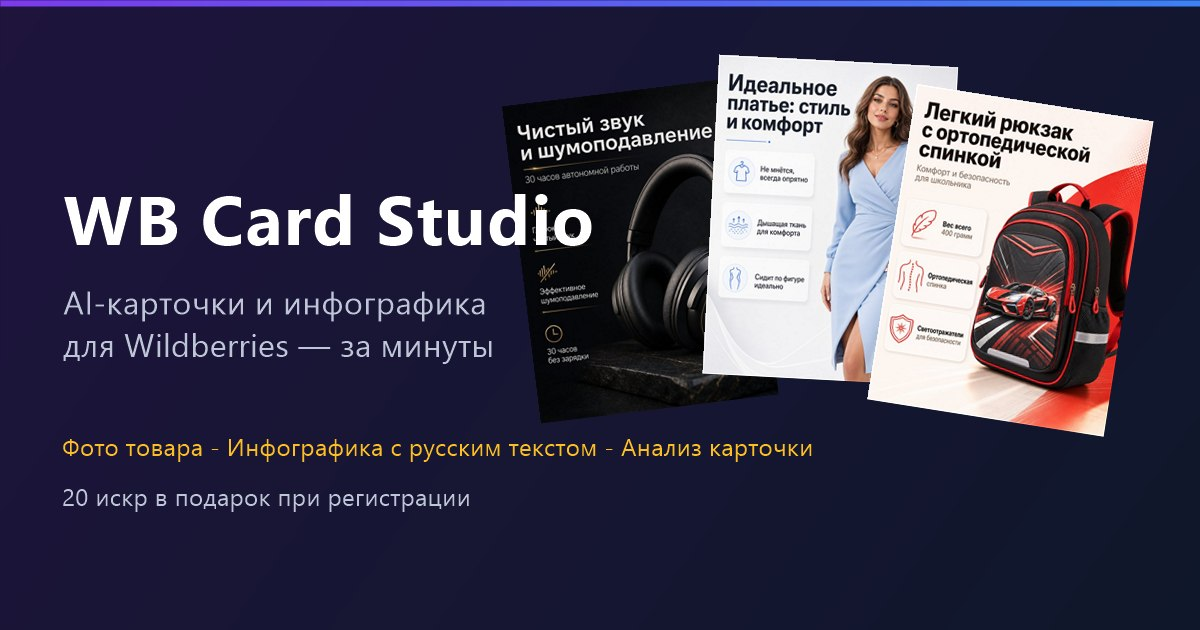
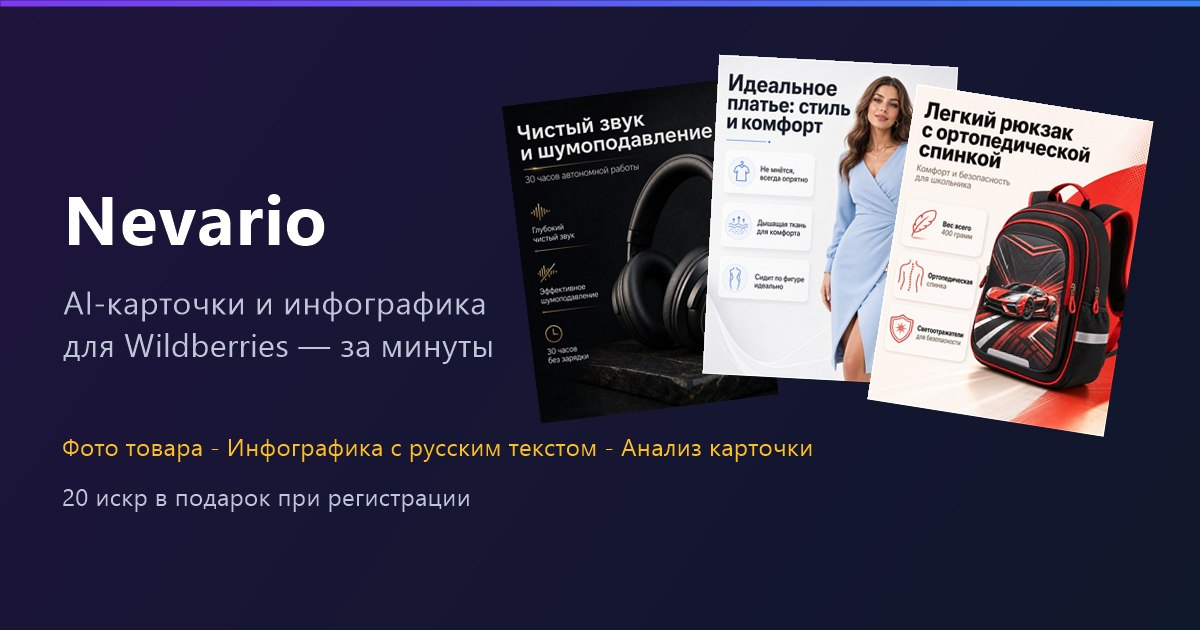
Rebrand to Nevario; turnkey pack is 55 sparks and now includes SEO texts
- all UI/meta/mailer/OG mentions of 'WB Card Studio' -> Nevario; og.jpg
  re-rendered with the new brand
- new generateSeoTexts service (Qwen): WB listing title (<=100 chars,
  keys first), 800-1200 char natural description, 12-15 search queries;
  deterministic fallback so the step can't fail hard
- turnkey: SEO runs as the FIRST step (user sees value in seconds),
  charged 6 sparks; images stay 7 each => full pack 55; results shown
  on the page with per-field copy buttons

Verified on mock providers: 8/8 steps, exactly 55 charged, real Qwen
SEO output is legitimate marketplace copy.

Changed region(s): [[0.0308, 0.3016, 0.4933, 0.3921]]

diff --git a/src/app/turnkey/page.tsx b/src/app/turnkey/page.tsx
@@ -20,6 +20,7 @@ type Step = {
   label: string;
   status: "pending" | "processing" | "done" | "failed";
   url?: string;
+  seo?: { title: string; description: string; keywords: string[] };
 };
 
 export default function TurnkeyPage() {
@@ -109,9 +110,9 @@ export default function TurnkeyPage() {
           </CardHeader>
           <CardContent className="space-y-4">
             <p className="text-xs text-muted-foreground">
-              Загрузите одно фото и заполните данные — студия соберёт комплект: инфографика
-              (преимущества, боль→решение, состав), размерная сетка и три фото (сбоку, сзади,
-              lifestyle). Списание — только за удавшиеся изображения, по 7 ⚡ за штуку.
+              Загрузите одно фото и заполните данные — студия соберёт комплект: SEO-тексты для
+              карточки, инфографика (преимущества, боль→решение, состав), размерная сетка и три
+              фото (сбоку, сзади, lifestyle). Списание — только за то, что удалось сгенерировать.
             </p>
             <ImageUploader
               value={image}
@@ -192,7 +193,7 @@ export default function TurnkeyPage() {
               ) : (
                 <Zap className="h-4 w-4" />
               )}
-              Собрать комплект · {PRICES.turnkey} ⚡ за 7 изображений
+              Собрать комплект · {PRICES.turnkey} ⚡ (7 изображений + SEO)
             </Button>
           </CardContent>
         </Card>
@@ -231,6 +232,73 @@ export default function TurnkeyPage() {
               )}
             </CardContent>
           </Card>
+
+          {(() => {
+            const seo = (steps ?? []).find((s) => s.key === "seo" && s.seo)?.seo;
+            if (!seo) return null;
+            const copy = (text: string, what: string) =>
+              navigator.clipboard
+                .writeText(text)
+                .then(() => toast.success(`${what} — скопировано`))
+                .catch(() => toast.error("Не удалось скопировать"));
+            return (
+              <Card>
+                <CardHeader className="pb-3">
+                  <CardTitle className="text-sm">SEO для карточки</CardTitle>
+                </CardHeader>
+                <CardContent className="space-y-3 text-sm">
+                  <div>
+                    <div className="mb-1 flex items-center justify-between">
+                      <p className="text-xs font-medium text-muted-foreground">Название</p>
+                      <Button variant="ghost" size="sm" onClick={() => copy(seo.title, "Название")}>
+                        Копировать
+                      </Button>
+                    </div>
+                    <p className="rounded-lg border bg-card/60 p-2.5">{seo.title}</p>
+                  </div>
+                  <div>
+                    <div className="mb-1 flex items-center justify-between">
+                      <p className="text-xs font-medium text-muted-foreground">Описание</p>
+                      <Button
+                        variant="ghost"
+                        size="sm"
+                        onClick={() => copy(seo.description, "Описание")}
+                      >
+                        Копировать
+                      </Button>
+                    </div>
+                    <p className="max-h-48 overflow-y-auto whitespace-pre-wrap rounded-lg border bg-card/60 p-2.5 text-xs leading-5">
+                      {seo.description}
+                    </p>
+                  </div>
+                  <div>
+                    <div className="mb-1 flex items-center justify-between">
+                      <p className="text-xs font-medium text-muted-foreground">
+                        Ключевые запросы ({seo.keywords.length})
+                      </p>
+                      <Button
+                        variant="ghost"
+                        size="sm"
+                        onClick={() => copy(seo.keywords.join(", "), "Ключевые запросы")}
+                      >
+                        Копировать
+                      </Button>
+                    </div>
+                    <div className="flex flex-wrap gap-1.5">
+                      {seo.keywords.map((k) => (
+                        <span
+                          key={k}
+                          className="rounded-full border bg-card/60 px-2 py-0.5 text-[11px]"
+                        >
+                          {k}
+                        </span>
+                      ))}
+                    </div>
+                  </div>
+                </CardContent>
+              </Card>
+            );
+          })()}
 
           {doneUrls.length > 0 && (
             <Card>

diff --git a/src/core/turnkey/run.ts b/src/core/turnkey/run.ts
@@ -1,11 +1,11 @@
 import { buildInfographicBrief, generateInfographicBase } from "@/core/infographics/infographic-service";
 import { getLibraryStyle } from "@/core/infographics/style-library";
 import type { InfographicInput } from "@/core/infographics/types";
-import { generateImageFromReference } from "@/core/ai/service";
+import { generateImageFromReference, generateSeoTexts, type SeoTexts } from "@/core/ai/service";
 import { persistGeneration } from "@/core/jobs/persist";
 import { updateJobPayload, completeJob, failJob } from "@/core/jobs/jobs";
 import { applyTx, billingEnabled } from "@/core/billing/billing";
-import { TURNKEY_ITEM_PRICE } from "@/core/billing/prices";
+import { TURNKEY_ITEM_PRICE, TURNKEY_SEO_PRICE } from "@/core/billing/prices";
 import { getUser } from "@/core/auth/store";
 
 /**
@@ -20,6 +20,7 @@ import { getUser } from "@/core/auth/store";
  * reference — a failed step simply isn't paid for.
  */
 export type TurnkeyStepKey =
+  | "seo"
   | "benefits"
   | "pain"
   | "materials"
@@ -33,6 +34,8 @@ export type TurnkeyStep = {
   label: string;
   status: "pending" | "processing" | "done" | "failed";
   url?: string;
+  /** filled for the "seo" step only */
+  seo?: SeoTexts;
 };
 
 export type TurnkeyInput = {
@@ -48,6 +51,7 @@ export type TurnkeyInput = {
 
 export function turnkeySteps(input: TurnkeyInput): TurnkeyStep[] {
   const steps: TurnkeyStep[] = [
+    { key: "seo", label: "SEO: название, описание, ключевые слова", status: "pending" },
     { key: "benefits", label: "Инфографика: преимущества", status: "pending" },
     { key: "pain", label: "Инфографика: боль → решение", status: "pending" },
     { key: "materials", label: "Инфографика: состав и материалы", status: "pending" },
@@ -81,6 +85,19 @@ async function run(parentId: string, email: string, input: TurnkeyInput): Promis
     step.status = "processing";
     await publish();
     try {
+      if (step.key === "seo") {
+        step.seo = await generateSeoTexts({
+          productName: input.productName,
+          category: input.category,
+          benefits: input.benefits,
+          materials: input.materials,
+        });
+        step.status = "done";
+        doneCount++;
+        await chargeItem(email, parentId, step.key, TURNKEY_SEO_PRICE);
+        await publish();
+        continue;
+      }
       const url =
         step.key === "side" || step.key === "back" || step.key === "lifestyle"
           ? await photoStep(step.key, email, input)
@@ -89,7 +106,7 @@ async function run(parentId: string, email: string, input: TurnkeyInput): Promis
       step.url = url;
       firstUrl = firstUrl ?? url;
       doneCount++;
-      await chargeItem(email, parentId, step.key);
+      await chargeItem(email, parentId, step.key, TURNKEY_ITEM_PRICE);
     } catch (e) {
       console.error(`[turnkey] step ${step.key} failed:`, e);
       step.status = "failed";
@@ -181,14 +198,19 @@ async function photoStep(
   });
 }
 
-async function chargeItem(email: string, parentId: string, key: string): Promise<void> {
+async function chargeItem(
+  email: string,
+  parentId: string,
+  key: string,
+  amount: number,
+): Promise<void> {
   if (!billingEnabled()) return;
   try {
     const user = await getUser(email);
     if (user?.role === "admin") return;
     await applyTx({
       email,
-      amount: -TURNKEY_ITEM_PRICE,
+      amount: -amount,
       type: "charge",
       action: "turnkey",
       reference: `${parentId}:${key}`,

diff --git a/src/core/ai/service.ts b/src/core/ai/service.ts
@@ -421,3 +421,62 @@ function parse<T>(text: string, schema: z.ZodType<T>, label: string): T {
   }
   return result.data;
 }
+
+/* ------------------------------ SEO texts ------------------------------- */
+
+const seoTextsSchema = z.object({
+  title: z.string().min(1),
+  description: z.string().min(1),
+  keywords: z.array(z.string()).default([]),
+});
+
+export type SeoTexts = { title: string; description: string; keywords: string[] };
+
+/**
+ * SEO copy for a WB listing: title with the main keys, a natural long
+ * description and a keyword list. Never throws — falls back to a
+ * deterministic draft so a batch (turnkey) step can't die on it.
+ */
+export async function generateSeoTexts(input: {
+  productName: string;
+  category?: string;
+  benefits: string[];
+  materials?: string[];
+}): Promise<SeoTexts> {
+  const fallback: SeoTexts = {
+    title: input.productName,
+    description: [input.productName, ...input.benefits].join(". "),
+    keywords: [input.productName, input.category ?? ""].filter(Boolean),
+  };
+  try {
+    const llm = getLLMProvider();
+    const result = await llm.complete({
+      task: "seo",
+      json: true,
+      context: { input },
+      messages: [
+        {
+          role: "system",
+          content:
+            "Ты — SEO-специалист по Wildberries. Пишешь тексты, по которым карточку находят в поиске WB. Отвечай строго JSON на русском, без markdown.",
+        },
+        {
+          role: "user",
+          content: `Товар: ${input.productName}
+Категория: ${input.category ?? "не указана"}
+Преимущества: ${input.benefits.join(", ") || "не указаны"}
+Состав: ${(input.materials ?? []).join(", ") || "не указан"}
+
+Верни JSON: {
+"title": SEO-название карточки до 100 символов — главные поисковые ключи в начале, без спама и КАПСА,
+"description": продающее описание 800–1200 знаков — естественный текст с вплетёнными ключевыми запросами, абзацами, без списков и без выдуманных характеристик,
+"keywords": массив из 12–15 реальных поисковых запросов покупателей WB, от частотных к нишевым
+}`,
+        },
+      ],
+    });
+    return parse(result.text, seoTextsSchema, "SEO-тексты") as SeoTexts;
+  } catch {
+    return fallback;
+  }
+}

diff --git a/src/app/layout.tsx b/src/app/layout.tsx
@@ -6,7 +6,7 @@ import { Toaster } from "@/components/ui/toaster";
 const inter = Inter({ subsets: ["latin", "cyrillic"], variable: "--font-inter" });
 
 const SITE_URL = process.env.SITE_URL || "https://kliiiipsa-card-studio-30da.twc1.net";
-const TITLE = "WB Card Studio — AI-карточки и инфографика для Wildberries";
+const TITLE = "Nevario — AI-карточки и инфографика для Wildberries";
 const DESCRIPTION =
   "Фото товара, готовая инфографика с русским текстом и анализ карточек — за минуты. 20 искр в подарок при регистрации.";
 
@@ -19,10 +19,10 @@ export const metadata: Metadata = {
     title: TITLE,
     description: DESCRIPTION,
     url: "/",
-    siteName: "WB Card Studio",
+    siteName: "Nevario",
     locale: "ru_RU",
     type: "website",
-    images: [{ url: "/og.jpg", width: 1200, height: 630, alt: "WB Card Studio" }],
+    images: [{ url: "/og.jpg", width: 1200, height: 630, alt: "Nevario" }],
   },
   twitter: {
     card: "summary_large_image",

diff --git a/src/core/ai/providers/image/mock.ts b/src/core/ai/providers/image/mock.ts
@@ -70,7 +70,7 @@ function svgDataUrl(prompt: string, tag: string, i: number, w: number, h: number
   <rect width="${w}" height="${h}" fill="url(#glow)"/>
   <rect x="${w * 0.28}" y="${h * 0.26}" width="${w * 0.44}" height="${w * 0.44}" rx="${w * 0.06}" fill="#ffffff" fill-opacity="0.12" stroke="#ffffff" stroke-opacity="0.35" stroke-width="2"/>
   <text x="${w * 0.5}" y="${h * 0.5}" font-family="Segoe UI, Arial, sans-serif" font-size="${w * 0.05}" fill="#ffffff" fill-opacity="0.85" text-anchor="middle">PREVIEW</text>
-  <text x="${w * 0.08}" y="${h * 0.12}" font-family="Segoe UI, Arial, sans-serif" font-weight="700" font-size="${w * 0.045}" fill="#ffffff">WB Card Studio</text>
+  <text x="${w * 0.08}" y="${h * 0.12}" font-family="Segoe UI, Arial, sans-serif" font-weight="700" font-size="${w * 0.045}" fill="#ffffff">Nevario</text>
   <text x="${w * 0.08}" y="${h * 0.9}" font-family="Segoe UI, Arial, sans-serif" font-size="${w * 0.026}" fill="#ffffff" fill-opacity="0.8">${tag} mock · ${label}</text>
 </svg>`;
   const encoded = Buffer.from(svg, "utf-8").toString("base64");

diff --git a/src/core/billing/prices.ts b/src/core/billing/prices.ts
@@ -23,8 +23,8 @@ export const PRICES: Record<SparkAction, number> = {
   analyze: 5,
   generate: 7,
   infographic: 10,
-  /** «Карточка под ключ»: 7 изображений пакетом (по 7 ⚡ за штуку вместо 7–10) */
-  turnkey: 49,
+  /** «Карточка под ключ»: 7 изображений (по 7 ⚡ за успешное) + SEO-тексты (6 ⚡) */
+  turnkey: 55,
   ideas: 0,
   write_prompt: 0,
   improve_prompt: 0,
@@ -34,8 +34,10 @@ export const PRICES: Record<SparkAction, number> = {
   extract_style: 0,
 };
 
-/** списание за каждый УСПЕШНЫЙ элемент пакета «под ключ» (49 / 7) */
+/** списание за каждое УСПЕШНОЕ изображение пакета «под ключ» */
 export const TURNKEY_ITEM_PRICE = 7;
+/** списание за SEO-блок пакета (7×7 + 6 = 55) */
+export const TURNKEY_SEO_PRICE = 6;
 
 export const ACTION_LABELS: Record<SparkAction, string> = {
   analyze: "Анализ карточки",

diff --git a/src/core/auth/mailer.ts b/src/core/auth/mailer.ts
@@ -95,13 +95,13 @@ export async function sendVerificationEmail(to: string, code: string): Promise<v
   const pass = process.env.SMTP_PASS!;
   const from = process.env.MAIL_FROM || user;
 
-  const subject = `=?UTF-8?B?${b64("Код подтверждения — WB Card Studio")}?=`;
+  const subject = `=?UTF-8?B?${b64("Код подтверждения — Nevario")}?=`;
   const body = b64(
     `Ваш код подтверждения: ${code}\r\n\r\n` +
-      `Код действует 15 минут. Если вы не регистрировались в WB Card Studio, просто проигнорируйте это письмо.\r\n`,
+      `Код действует 15 минут. Если вы не регистрировались в Nevario, просто проигнорируйте это письмо.\r\n`,
   );
   const message =
-    `From: WB Card Studio <${from}>\r\n` +
+    `From: Nevario <${from}>\r\n` +
     `To: <${to}>\r\n` +
     `Subject: ${subject}\r\n` +
     `MIME-Version: 1.0\r\n` +

diff --git a/src/app/page.tsx b/src/app/page.tsx
@@ -90,7 +90,7 @@ export default async function LandingPage() {
             <Gem className="h-5 w-5" />
           </div>
           <span className="whitespace-nowrap text-sm font-semibold sm:text-base">
-            WB Card Studio
+            Nevario
           </span>
         </Link>
         <div className="flex shrink-0 items-center gap-1.5 sm:gap-3">
@@ -233,7 +233,7 @@ export default async function LandingPage() {
       </section>
 
       <footer className="container border-t py-8 text-center text-sm text-muted-foreground">
-        WB Card Studio · AI-студия карточек Wildberries
+        Nevario — AI-студия карточек для Wildberries
       </footer>
     </div>
   );

diff --git a/src/app/register/page.tsx b/src/app/register/page.tsx
@@ -96,7 +96,7 @@ export default function RegisterPage() {
           <div className="mx-auto flex h-11 w-11 items-center justify-center rounded-xl bg-primary/10 text-primary">
             {step === "form" ? <UserPlus className="h-5 w-5" /> : <MailCheck className="h-5 w-5" />}
           </div>
-          <CardTitle className="text-base">WB Card Studio</CardTitle>
+          <CardTitle className="text-base">Nevario</CardTitle>
           <p className="text-sm text-muted-foreground">
             {step === "form" ? "Регистрация" : "Подтверждение почты"}
           </p>

diff --git a/src/components/layout/mobile-nav.tsx b/src/components/layout/mobile-nav.tsx
@@ -28,7 +28,7 @@ export function MobileNav() {
               <div className="flex h-9 w-9 items-center justify-center rounded-xl bg-gradient-to-br from-primary to-blue-500 text-white shadow-md">
                 <Gem className="h-5 w-5" />
               </div>
-              <span className="text-sm font-semibold whitespace-nowrap">WB Card Studio</span>
+              <span className="text-sm font-semibold whitespace-nowrap">Nevario</span>
             </Link>
             <Dialog.Close asChild>
               <Button variant="ghost" size="icon" aria-label="Закрыть меню">

diff --git a/src/app/login/page.tsx b/src/app/login/page.tsx
@@ -53,7 +53,7 @@ function LoginInner() {
           <div className="mx-auto flex h-11 w-11 items-center justify-center rounded-xl bg-primary/10 text-primary">
             <Lock className="h-5 w-5" />
           </div>
-          <CardTitle className="text-base">WB Card Studio</CardTitle>
+          <CardTitle className="text-base">Nevario</CardTitle>
           <p className="text-sm text-muted-foreground">Вход в аккаунт</p>
         </CardHeader>
         <CardContent>

diff --git a/src/components/layout/sidebar.tsx b/src/components/layout/sidebar.tsx
@@ -49,7 +49,7 @@ export function Sidebar() {
           <Gem className="h-5 w-5" />
         </div>
         <div className="leading-tight">
-          <div className="text-sm font-semibold whitespace-nowrap">WB Card Studio</div>
+          <div className="text-sm font-semibold whitespace-nowrap">Nevario</div>
           <div className="text-xs text-muted-foreground">AI для карточек</div>
         </div>
       </Link>
